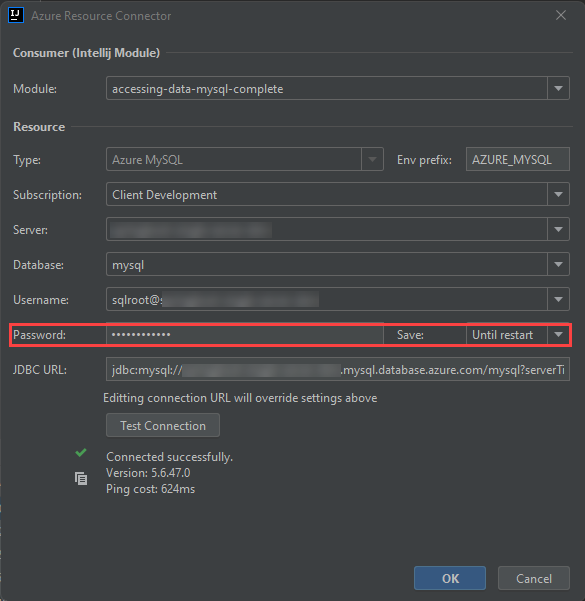
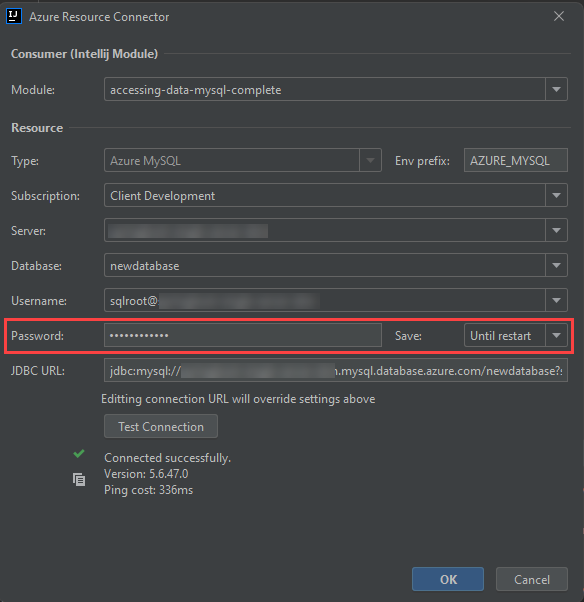
Finished IntelliJ sample.

diff --git a/03_GettingStarted/03_03_Language_Support_Java.md b/03_GettingStarted/03_03_Language_Support_Java.md
@@ -1,8 +1,14 @@
 # Java (Spring Boot) Language Support
 
-This guide will demonstrate how to operate a Spring Framework application that queries Azure Database for MySQL through Spring Data JPA. We will also present Azure extensions for popular Java development tools.
+This guide will demonstrate how to operate a Spring Framework application that queries Azure Database for MySQL through the Spring Data JPA. We will also present Azure extensions for popular Java development tools.
 
 ## Setup
+
+### Prerequisites
+
+Please complete the instructions for [working with Flexible Server in MySQL Workbench.](03_06_Query_MySQL_Workbench.md) Utilize version 8.0.26 as you complete the guide to ensure compatibility with Single Server.
+
+Moreover, download Postman, a popular REST client. If you are more comfortable with another utility, such as `curl`, feel free to use it instead.
 
 ### IntelliJ Setup
 
@@ -51,6 +57,12 @@ The IntelliJ Azure explorer supports Azure Database for MySQL Single Server, but
 
     ![This image demonstrates Single Server MySQL connection information from the IntelliJ Azure explorer.](./media/mysql-instance-information.png "MySQL connection information")
 
+5. Create a new connection to your Azure Database for MySQL Single Server instance from MySQL Workbench. Use the following SQL statement to create a new database called `newdatabase`. This application will not function with the provided `mysql` system database.
+
+    ```sql
+    CREATE DATABASE newdatabase;
+    ```
+
 ## Run the App
 
 1. Open `application.properties` from the project hierarchy: `src` > `main` > `resources`. Delete all the `spring.datasource.*` entries.
@@ -62,3 +74,37 @@ The IntelliJ Azure explorer supports Azure Database for MySQL Single Server, but
 3. In the **Azure Resource Connector** window, keep all parameters the same. Simply populate the **Password**. Then, select **OK**.
 
     ![This image demonstrates the Azure Resource Connector dialog box.](./media/azure-resource-connector-intellij.png "Azure Resource Connector")
+
+4. Replace the contents you removed from the `application.properties` file with the following. Notice how the connection information is encapsulated in environment variables.
+
+    ```
+    spring.datasource.url=${AZURE_MYSQL_URL}
+    spring.datasource.username=${AZURE_MYSQL_USERNAME}
+    spring.datasource.password=${AZURE_MYSQL_PASSWORD}
+    ```
+
+5. Start the application from the upper right-hand corner of the screen.
+
+    ![This image shows how to start the Spring Boot app from IntelliJ.](./media/start-app-intellij.png "Starting Spring Boot app")
+
+## Testing the App
+
+1. Open Postman, or the REST client of your choice. Make a `POST` request to `http://localhost:8080/demo/add` with the URL parameters `name` and `email`.
+
+    ![This image shows how to make a POST request to the Java app endpoint.](./media/post-request-postman.png "POST to endpoint")
+
+2. Make a `GET` request to `http://localhost:8080/demo/all`. The entries that you added through the POST request will be displayed.
+
+    ![This image shows how to make a GET request to the Java app endpoint.](./media/get-request-postman.png "GET request from Postman")
+
+3. As expected, the data is persisted to the MySQL Single Server instance.
+
+    ![This image shows the user data persisted to the MySQL Single Server instance with a query in MySQL Workbench.](./media/result-set-mysql-workbench.png "Data persisted to Single Server")
+
+## Stop the App
+
+1. Stop the app in IntelliJ.
+
+2. In the **Azure Explorer**, right-click the MySQL Single Server instance you created and select **Stop**.
+
+Congratulations. You have successfully installed IntelliJ, the Azure Explorer extension, created a MySQL Single Server instance, and securely operated an app using the Single Server.

diff --git a/03_GettingStarted/03_06_Query_MySQL_Workbench.md b/03_GettingStarted/03_06_Query_MySQL_Workbench.md
@@ -6,7 +6,7 @@ This guide explains how to perform queries against Azure Database for MySQL Flex
 
 Follow one of the methods in the [Provision MySQL Flexible Server](03_05_Provision_MySQL_Flexible_Server.md) document to create a Flexible Server instance with a database.
 
-Download MySQL Workbench from the [MySQL Downloads.](https://dev.mysql.com/downloads/workbench/) This document was written using version 8.0.27.
+Download MySQL Workbench from the [MySQL Downloads.](https://dev.mysql.com/downloads/workbench/) This document was written using version 8.0.26: we recommend this version because Single Server is not compatible with 8.0.27, so 8.0.26 has the greatest flexibility.
 
 ## Instructions
 
